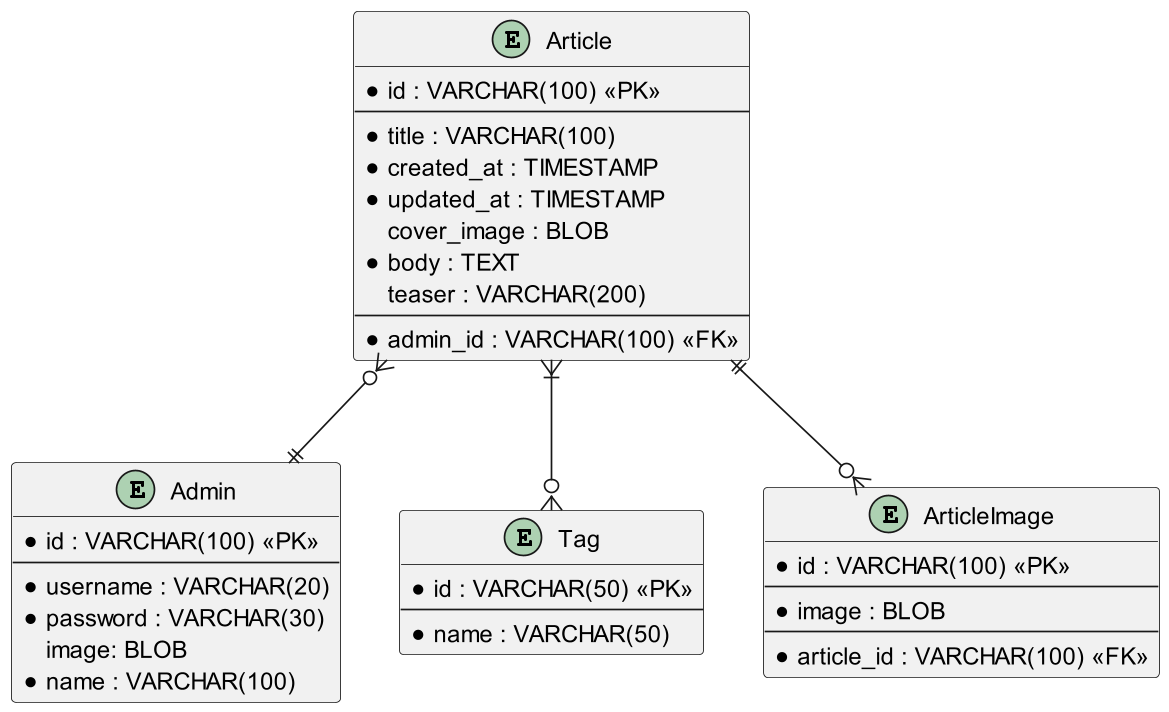
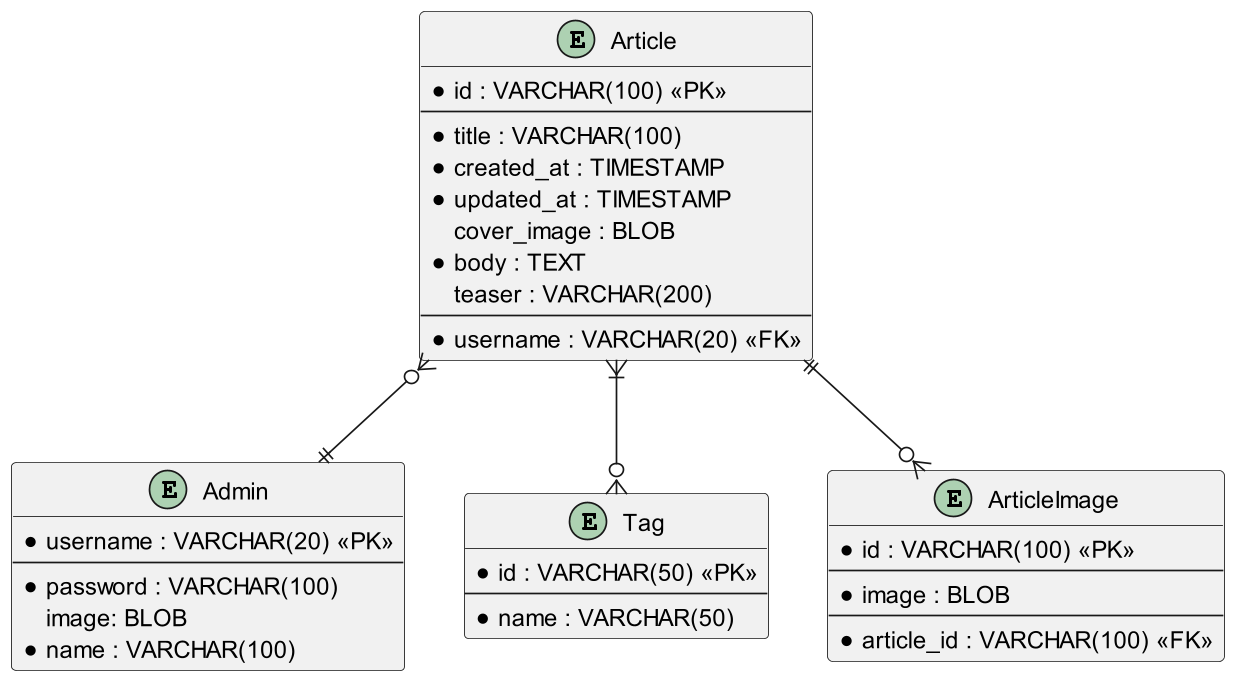
Update ERD, Database, Entity Model
menghapus id pada tabel admin, menjadikan username sebagai primary key, dan mengganti maksimum character password menjadi 100

diff --git a/src/main/java/org/knpkid/kms/entity/Article.java b/src/main/java/org/knpkid/kms/entity/Article.java
@@ -37,7 +37,7 @@ public class Article {
     private String teaser;
 
     @ManyToOne
-    @JoinColumn(name = "admin_id", referencedColumnName = "id")
+    @JoinColumn(name = "username", referencedColumnName = "username")
     private Admin admin;
 
     @ManyToMany

diff --git a/src/main/java/org/knpkid/kms/entity/Admin.java b/src/main/java/org/knpkid/kms/entity/Admin.java
@@ -11,9 +11,6 @@ import java.util.List;
 public class Admin {
 
     @Id
-    @GeneratedValue(strategy = GenerationType.UUID)
-    private String id;
-
     private String username;
 
     private String password;
